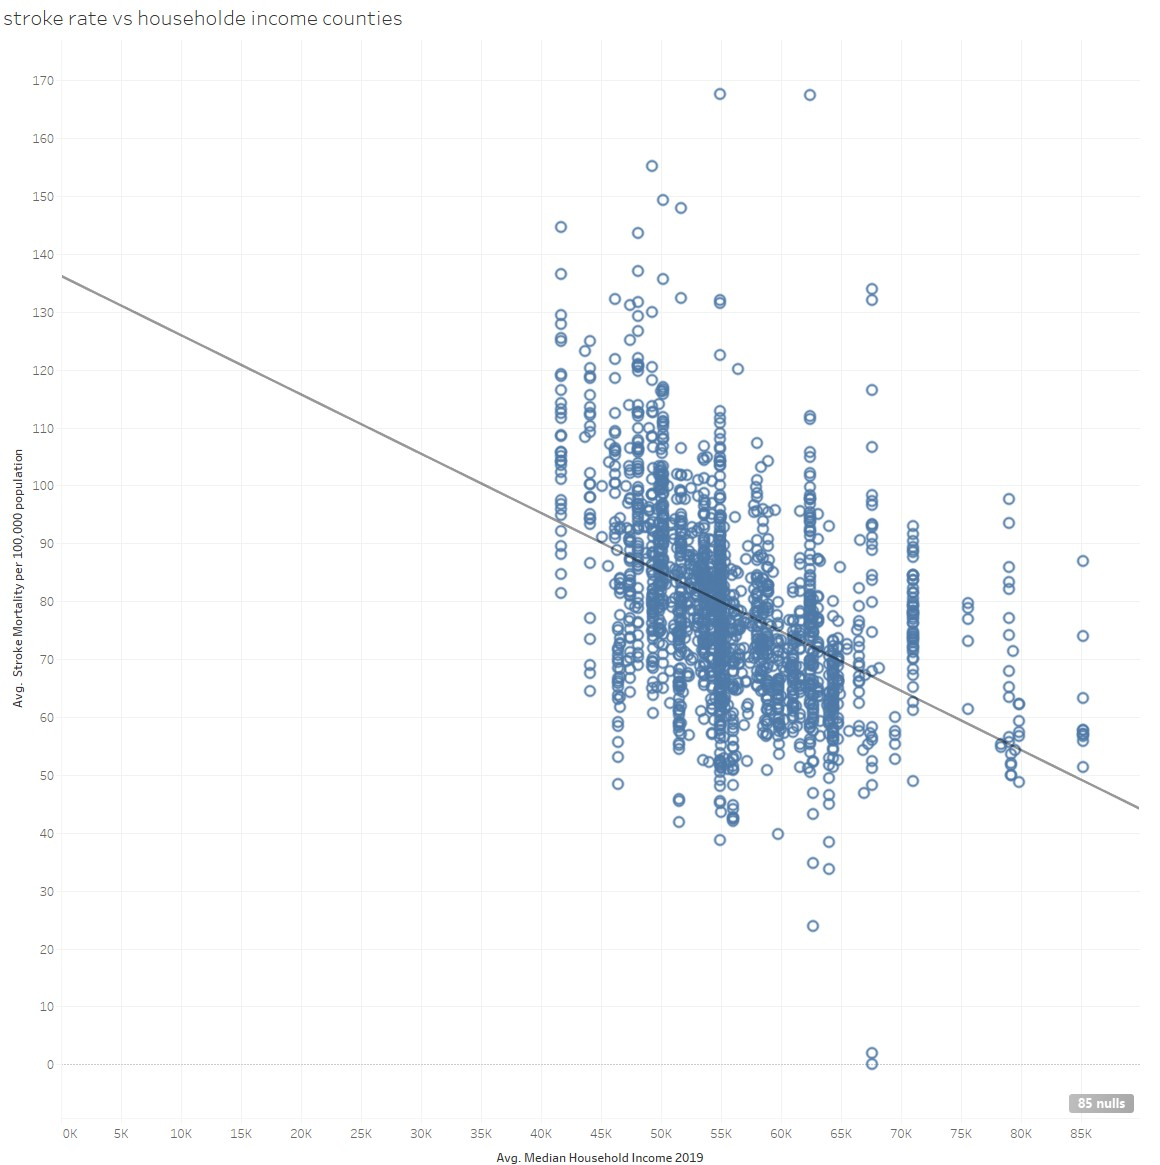
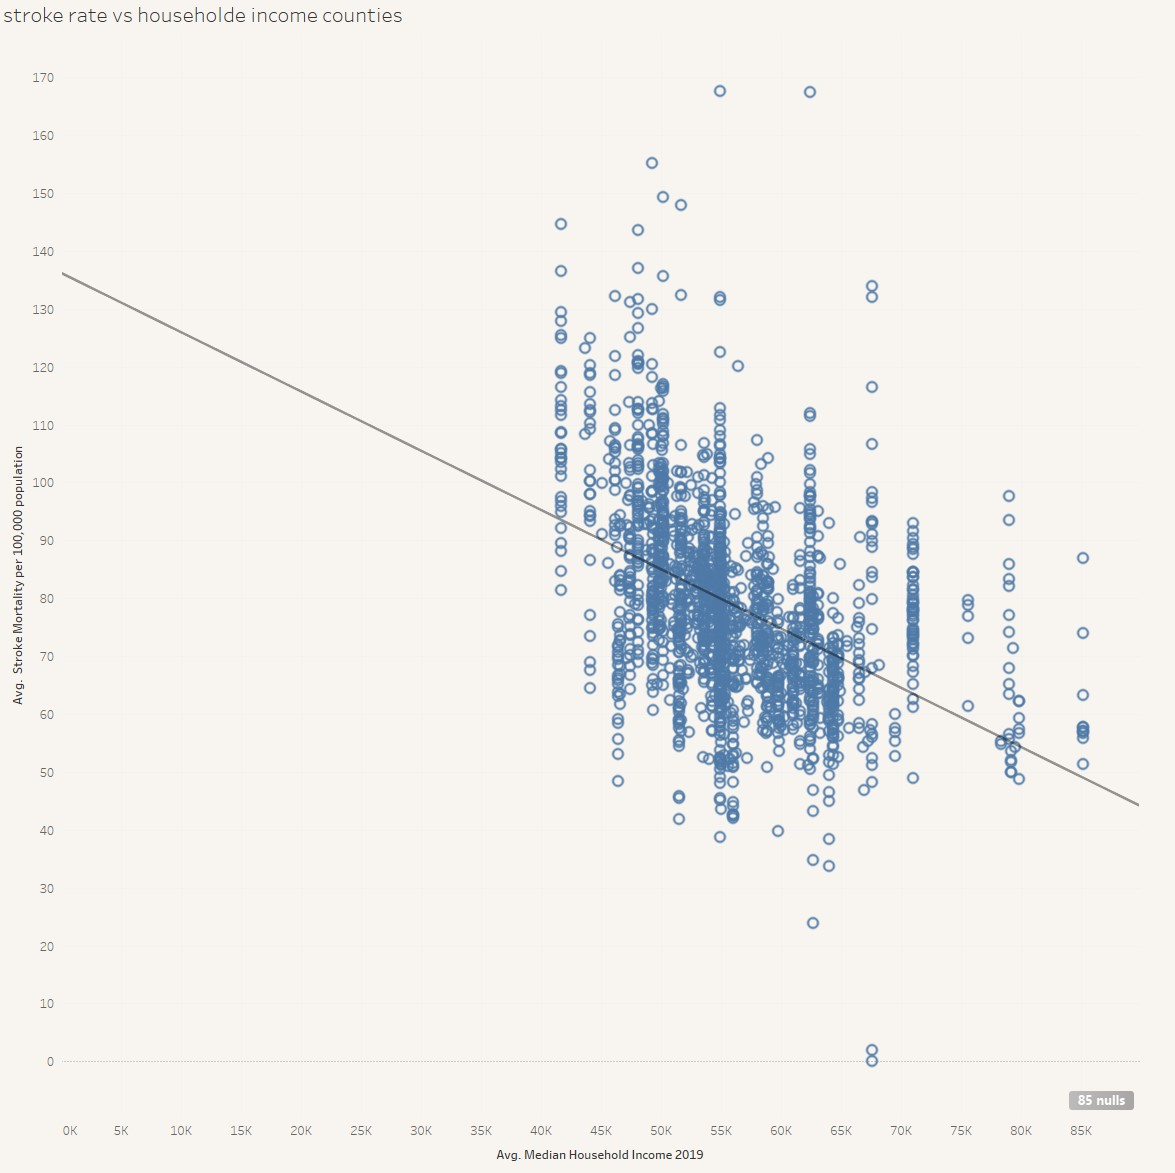
fix analysismortality page

diff --git a/Stroke/templates/AnalysisMortalityRate.html b/Stroke/templates/AnalysisMortalityRate.html
@@ -5,24 +5,32 @@
 <script src="https://code.jquery.com/jquery-3.6.0.js" integrity="sha256-H+K7U5CnXl1h5ywQfKtSj8PCmoN9aaq30gDh27Xc0jk="
   crossorigin="anonymous"></script>
 <!-- load header -->
-<script>  $(function () { $('#header').load('head') })</script>
+<script>  $(function () { $('#header').load('head_template.html') })</script>
 <div id=header></div>
 <!-- body -->
 
 <body>
+  <div class="container"></div>
   <!-- load navbar -->
-  <script> $(function () { $('#mybar').load('nav') })</script>
+  <script> $(function () { $('#mybar').load('navbar_template.html') })</script>
   <div id=mybar></div>
 
-  <!-- JUMBOTRON 1 Template  -->
-  <!-- JUMBOTRON 1 Template  -->
-  <div class="row justify-content-center">
-    <!-- 2.1column                                                                   2.1column -->
+  <div class="row justify-content-center analysis_page">
+    <!-- 1.1column                                                                   2.1column -->
     <div class="col-lg-12  col-md-12">
-      <div class="jumbotron">
-        <h1 class="display-5">Stroke Mortality Rate</h1>
+        <h2 class="display-5">Stroke Mortality Rate. Genderal</h2>
         <hr class="my-4">
-        <p class="lead">
+        
+        <a href="vizz_mortality">
+          <figure class="fig1_p2">
+            <img src="../static/images/mortality_rate/overall.jpg" class="rounded img_p2 "
+              alt="Stroke mortality dashboard">
+            <figcaption>
+              Stroke Mortality Rate Vizz
+            </figcaption>
+          </figure>
+        </a>
+            <p class="lead">
           3 years averaged (2015-2017) Stroke Mortality Rate per 100,000 people mapped by each State,
           filters - gender: overall , ehtnicity: overall.</p>
         <ul class="lead">
@@ -30,80 +38,87 @@
           <li>South East region is above average with Alabama leading at 100 death rate.</li>
         </ul>
         <br>
-        <a href="vizz_mortality">
-          <figure class="fig1_p1">
-            <img src="../static/images/mortality_rate/overall.jpg" class="rounded img_p1 "
-              alt="Stroke mortality dashboard">
-            <figcaption>
-              Stroke Mortality Rate Vizz
-            </figcaption>
-          </figure>
-        </a>
-         <hr class="my-4">
-         <!-- Para 2 -->
-         <p class="lead">
+          </div>
+          <!-- Para 2 -->
+    <div class="col-lg-12  col-md-12 ">
+      <br>
+      <hr class="my-4">
+        <h2 class="display-5">Stroke Mortality Rate. Median Household Income</h2>
+        
+        <figure class="fig1_p2">
+          <img src="../static/images/mortality_rate/correlation.jpg" class="rounded img_p2 "
+            alt="Stroke mortality dashboard">
+          <figcaption>
+            Stroke mortality Rate vs Median Household Income
+          </figcaption>
+        </figure>
+             <p class="lead">
           Stroke mortality Rate vs Median Household Income.</p>
         <ul class="lead">
           <li>Visible negative correlation between Stroke rate and median household income.</li>
           <li>Clear correlation with median household income for South East region.</li>
         </ul>
         <br>
-      
-          <figure class="fig1_p1">
-            <img src="../static/images/mortality_rate/correlation.jpg" class="rounded img_p1 "
-              alt="Stroke mortality dashboard">
-            <figcaption>
-              Stroke mortality Rate vs Median Household Income
-            </figcaption>
-          </figure>
-         <hr class="my-4">
-         <!-- para3 -->
+      </div>
+        <!-- para3 -->
+        <div class="col-lg-12  col-md-12 ">
+          <br>
+          <hr class="my-4">
+          <h2 class="display-5">Stroke Mortality Rate. Race/Ethnicity</h2>
+          <a href="vizz_mortality">
+            <figure class="fig1_p2">
+              <img src="../static/images/mortality_rate/Ehtnicity.jpg" class="rounded img_p2 "
+                alt="Stroke mortality dashboard">
+              <figcaption>
+                Stroke Mortality Rate Vizz
+              </figcaption>
+            </figure>
+          </a>
          <p class="lead">
-          Race/Entnicity:
+          Race/Ethnicity:
           3 years averaged (2015-2017) Stroke Mortality Rate per 100,000 people mapped by each State,
           filters - gender: overall , ehtnicity: all.</p>
         <ul class="lead">
-          <li>Averaged USA mortality rate is around 75. </li>
-          <li>South East region is above average with Alabama leading at 100 death rate.</li>
+          <li>Black Stroke rate is significantly higher than overall</li>
+          <li>Hispanic and Asian is lower than overall.</li>
         </ul>
         <br>
-        <a href="vizz_mortality">
-          <figure class="fig1_p1">
-            <img src="../static/images/mortality_rate/Ehtnicity.jpg" class="rounded img_p1 "
-              alt="Stroke mortality dashboard">
-            <figcaption>
-              Stroke Mortality Rate Vizz
-            </figcaption>
-          </figure>
-        </a>
-         <hr class="my-4">
-<!-- para 4 -->
-<p class="lead">
-  Gender:
-  3 years averaged (2015-2017) Stroke Mortality Rate per 100,000 people mapped by each State,
-  filters - gender: all , ehtnicity: overall.</p>
-<ul class="lead">
-  <li>Male rate is slightly higher than female </li>
-</ul>
-<br>
-<a href="vizz_mortality">
-  <figure class="fig1_p1">
-    <img src="../static/images/mortality_rate/Gender.jpg" class="rounded img_p1 "
-      alt="Stroke mortality dashboard">
-    <figcaption>
-      Stroke Mortality Rate Vizz
-    </figcaption>
-  </figure>
-</a>
- <hr class="my-4">
-          <p class="lead">
-            <a class="btn btn-primary btn-lg"
-              href="https://public.tableau.com/profile/yakov.krasnikov#!/vizhome/2016Strokedeathrate/Dashboard4?publish=yes"
-              target="_blank" role="button">Learn more</a>
-          </p>
       </div>
+        <!-- para 4 -->
+        <div class="col-lg-12  col-md-12 ">
+          <br>
+          <hr class="my-4">
+          <h2 class="display-5">Stroke Mortality Rate. Gender</h2>
+          <a href="vizz_mortality">
+            <figure class="fig1_p2">
+              <img src="../static/images/mortality_rate/Gender.jpg" class="rounded img_p2 "
+                alt="Stroke mortality dashboard">
+              <figcaption>
+                Stroke Mortality Rate Vizz
+              </figcaption>
+            </figure>
+          </a>
+        <p class="lead">
+          Gender:
+          3 years averaged (2015-2017) Stroke Mortality Rate per 100,000 people mapped by each State,
+          filters - gender: all , ehtnicity: overall.</p>
+        <ul class="lead">
+          <li>Male rate is slightly higher than female </li>
+        </ul>
+        <br>
+        </div>
+        <div class="col-lg-12  col-md-12 ">
+          <br>
+        <hr class="my-4">
+        <p class="lead">
+          <a class="btn btn-primary btn-lg"
+            href="https://public.tableau.com/profile/yakov.krasnikov#!/vizhome/2016Strokedeathrate/Dashboard4?publish=yes"
+            target="_blank" role="button">Learn more</a>
+        </p>
+      </div>
+      
     </div>
-
+  </div>
 </body>
 
 </html>

diff --git a/Stroke/static/styles/styles.css b/Stroke/static/styles/styles.css
@@ -22,7 +22,7 @@
 }
 .fig1_p2 {
     float:left;
-    width: 30%;
+    width: 50%;
     
     text-align:center;
     font-size: large;
@@ -39,7 +39,7 @@
 
 .img_p2{
     width: 100%;
-    max-height: 500px;
+
 }
 
 .my_card{
@@ -78,4 +78,12 @@
 
   .team_p1{
       margin: 0px;
+  }
+
+  .analysis_page{
+      background-color:#f8f5f0 ;
+      margin-top:4rem;
+      margin-left:1rem;
+      margin-right:1rem;
+
   }
